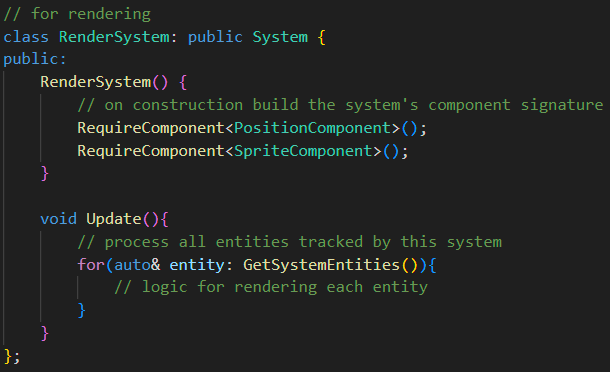
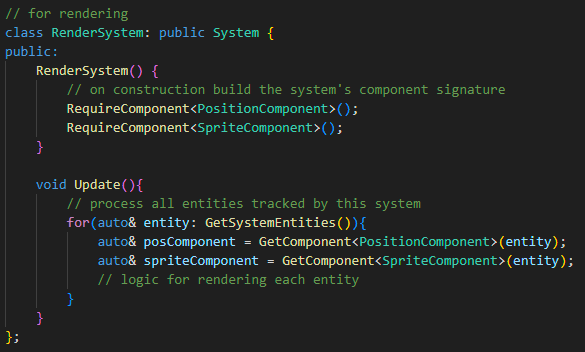
cpu cache friend

diff --git a/src/components/Rotmgabe.jsx b/src/components/Rotmgabe.jsx
@@ -1,3 +1,4 @@
+import { BaseCard } from "./BaseCard"
 
 export const Rotmgabe = ({ className, visible }) => {
     return (
@@ -130,28 +131,41 @@ export const Rotmgabe = ({ className, visible }) => {
                         The resulting signature does not match the signature of the system, so it will not be tracked.
                     </div>
                 </div>
-            </div>    
+            </div> 
             <div className="passage-text">
-                show how easy it is to check if an entity should be tracked by a system here. Registry::AddEntityToSystems
+                So, now we have entities, with their components in contiguous pools, that are modified by specialized systems. What are the advantages with this design? Why is this code so performant? There are three primary reasons:
             </div>
-            <div className="passage-text">
-                Example systems here. Render system, linear movement system. use above entities as example. then can finally talk abt cache locality, vectorization, data oritented design (structs contain data based on access)
-            </div>
-            <div className="passage-text">
-                also, mention separation of concerns of systems allows for potential for paralellization even tho I didnt do this
-            </div>
-            <div className="flex flex-row items-center justify-center gap-12">
+            <div className="flex flex-col items-center justify-center gap-4">
+                <BaseCard title="1) CPU Cache Friendliness"></BaseCard>
                 <div className="passage-text">
-                    In Data-Oriented Design, we organize and add data fields to structs based on the temporal and spatial locality of the fields, and keep size as low as possible.
+                    Contiguous component pools provide spatial and temporal locality during system updates. When a system reads a component for an entity, it actually loads an entire cache line (usually 64 bytes) of data from RAM into the CPU cache. Given that systems update all of their entities each frame, fetching components often results in cache hits because that data has already been loaded into the CPU cache, which is orders of magnitude faster than getting the data from RAM in the case of a cache miss.
                 </div>
                 <div className="passage-text">
-                    In Object-Oriented Design, we organize and add data fields to classes to represent real world objects or concepts that are intuitive for humans
+                    With this in mind, components are designed to be as small as possible. Smaller components mean more of them fit into a single cache line, maximizing the amount of useful data loaded into the CPU cache at once. Additionally, components are structured around system access patterns—ideally, to reduce cache misses, all the data in a component will be needed whenever it is loaded from memory. To illustrate this, I'll show how a player-statistics component would be designed in an object-oriented approach and constrast it with data-oriented approach.
                 </div>
-                <strong>great example opportunity: player stat as one class for OO, and separated out for DOd</strong>
+                <div className="grid grid-cols-2 items-start justify-center gap-12">
+                    <div className="flex flex-col items-center justify-center gap-1">
+                        <div className="passage-text font-bold">Object-Oritented Design:</div>
+                        <div className="passage-text">In Object-Oriented Design, we organize and add data fields to classes to represent real world objects or concepts that are intuitive for humans:</div>
+                        <img className="rounded-image" src="/OOPstats.png"></img>
+                    </div>
+                    <div className="flex flex-col items-center justify-center gap-1">
+                        <div className="passage-text font-bold">Data-Oritented Design:</div>
+                        <div className="passage-text">In Data-Oriented Design, we organize and add data fields to structs based on the temporal and spatial locality of the fields, and keep size as low as possible:</div>
+                        <img className="rounded-image" src="/DODstats.png"></img>
+                    </div>
+                </div>
             </div>
-            <div className="flex flex-col items-center justify-center gap-1">
+            <div className="flex flex-col items-center justify-center gap-4">
+                <BaseCard title="2) Vectorization"></BaseCard>
                 <div className="passage-text">
-                    also, mention separation of concerns of systems allows for potential for paralellization even tho I didnt do this
+                    Blah Blah Blah 
+                </div>
+            </div>
+            <div className="flex flex-col items-center justify-center gap-4">
+                <BaseCard title="3) Parallelism"></BaseCard>
+                <div className="passage-text">
+                    Blah Blah Blah 
                 </div>
             </div>
             <div className="passage-text">
@@ -159,17 +173,16 @@ export const Rotmgabe = ({ className, visible }) => {
                 Registry: entity id mgmt, killing/creating entities, data hole filling (remove component), managing pools
                 numeric types
                 eventBus
-            </div>
-            <div className="passage-text">
-                give credit to pikuma, and credit to who he cited. "Credit: I was introduced to ECS from an online lecture series by Gustavo X, which was based off an academic paper published by Professor Y."
-                The art in this project was created by Oryx Design Labs and licensed for its use.”
+                branch predictability
+                enums
+                initializer lists
             </div>
             <div className="passage-text">
                 mockups here, maybe. I don't know if they're interesting enough to show
             </div>
             <div className="passage-text">
-                todo simplify pool.png. show definition for add remove maybe
-                include ~Pool destructor.
+                give credit to pikuma, and credit to who he cited. "Credit: I was introduced to ECS from an online lecture series by Gustavo X, which was based off an academic paper published by Professor Y."
+                The art in this project was created by Oryx Design Labs and licensed for its use.”
             </div>
         </div>
     )

diff --git a/src/components/Projects.jsx b/src/components/Projects.jsx
@@ -5,9 +5,8 @@ import { Gabebook } from "./Gabebook";
 import { Thiswebsite } from "./Thiswebsite";
 
 export const Projects = () => {
-    const projects = ["Realm-of-the-Mad-Gabe", "TheGabebook", "This Website"];
+    const projects = ["Realm of the Mad Gabe", "TheGabebook", "This Website"];
     const [project, setProject] = useState("");
-    // const [project, setProject] = useState(projects[0]);
 
     return (
         <>

diff --git a/codeExamples/DOD.cpp b/codeExamples/DOD.cpp
@@ -5,6 +5,8 @@
 #include <memory>
 #include "D:\laboratory\c++\Realm-of-the-Mad-Gabe\libs\glm\glm.hpp"
 #include <bitset>
+#include <cstdint>
+
 
 template <typename T>
 struct Component{};
@@ -163,6 +165,8 @@ public:
     void Update(){
         // process all entities tracked by this system
         for(auto& entity: GetSystemEntities()){
+            auto& posComponent = GetComponent<PositionComponent>(entity);
+            auto& spriteComponent = GetComponent<SpriteComponent>(entity);
             // logic for rendering each entity
         }
     }
@@ -180,3 +184,45 @@ int main(){
         Render(); // call all rendering systems' update functions
     }    
 }
+
+// bundled together to represent a human friendly concept
+class PlayerStats {
+public:
+    double HP; // health points
+    double MP; // magic points
+    int maxHP; // maximum possible health points
+    int maxMP; // maxiumum possible magic points
+    int defense; // reduces damage taken
+    int wisdom; // rate of magic points restoration
+    int vitality; // rate of health points restoration
+    int speed; // used in velocity calculations
+    int dexterity; // rate of fire
+    int attack; // damage modifier for attacking
+};
+
+// used in systems related to health (ie taking damage)
+struct HealthStatComponent {
+    float HP; // health points
+    uint16_t maxHP; // maximum possible health points
+    uint8_t defense; // reduces damage taken
+    uint8_t vitality; // rate of health points restoration
+};
+
+// used in systems related to magic (ie using abilities)
+struct MagicStatComponent {
+    float MP; // magic points
+    uint16_t maxMP; // maxiumum possible magic points
+    uint8_t wisdom; // rate of magic points restoration
+};
+
+// used in systems related to attacking
+struct OffensiveStatComponent {
+    uint8_t dexterity; // rate of fire
+    uint8_t attack; // damage modifier for attacking
+};
+
+// used in systemd related to moving
+struct SpeedStatComponent {
+    uint8_t speed; // used in velocity calculations
+};
+
